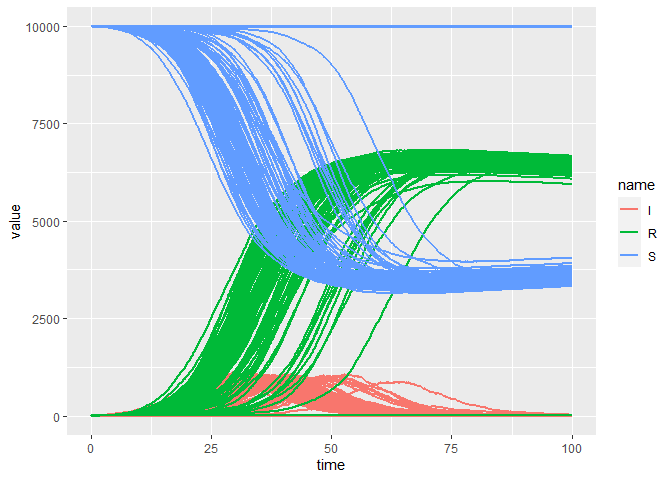
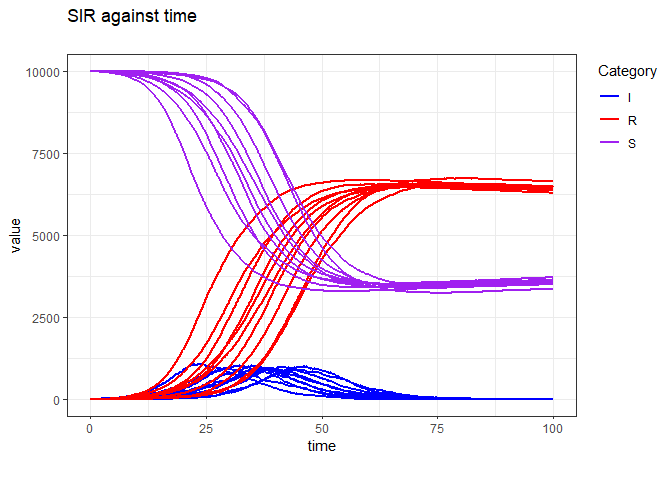
Improvements to plotting using ggplot. Updates made to sirmodel.R, parameters.R, test_sirmodel.R, Readme.Rmd and README.md

diff --git a/README.md b/README.md
@@ -17,6 +17,7 @@ You can install the released version of sirstochastic from
 
 ``` r
 install.packages("sirstochastic")
+install.packages("ggplot2")
 ```
 
 And the development version from [GitHub](https://github.com/) with:
@@ -45,12 +46,12 @@ draw with `n = I` and `p = sigma * dt`. Note, N = S + I + R.
 ## Example
 
 This is a basic example which shows you how to solve a common problem.
-The model is run once for 10,000 iterations with a time step of 0.01
+The model is run once for 10,000 iterations with a time step of 0.01.
 
 <img src="man/figures/README-unnamed-chunk-2-1.png" width="100%" />
 
-This time the model is run a hundred times for 10,000 iterations with a
-time step of 0.01 using the same code.
+This time the model is run a 100 times for 10,000 iterations with a time
+step of 0.01 using the same code.
 
 <img src="man/figures/README-unnamed-chunk-3-1.png" width="100%" />
 
